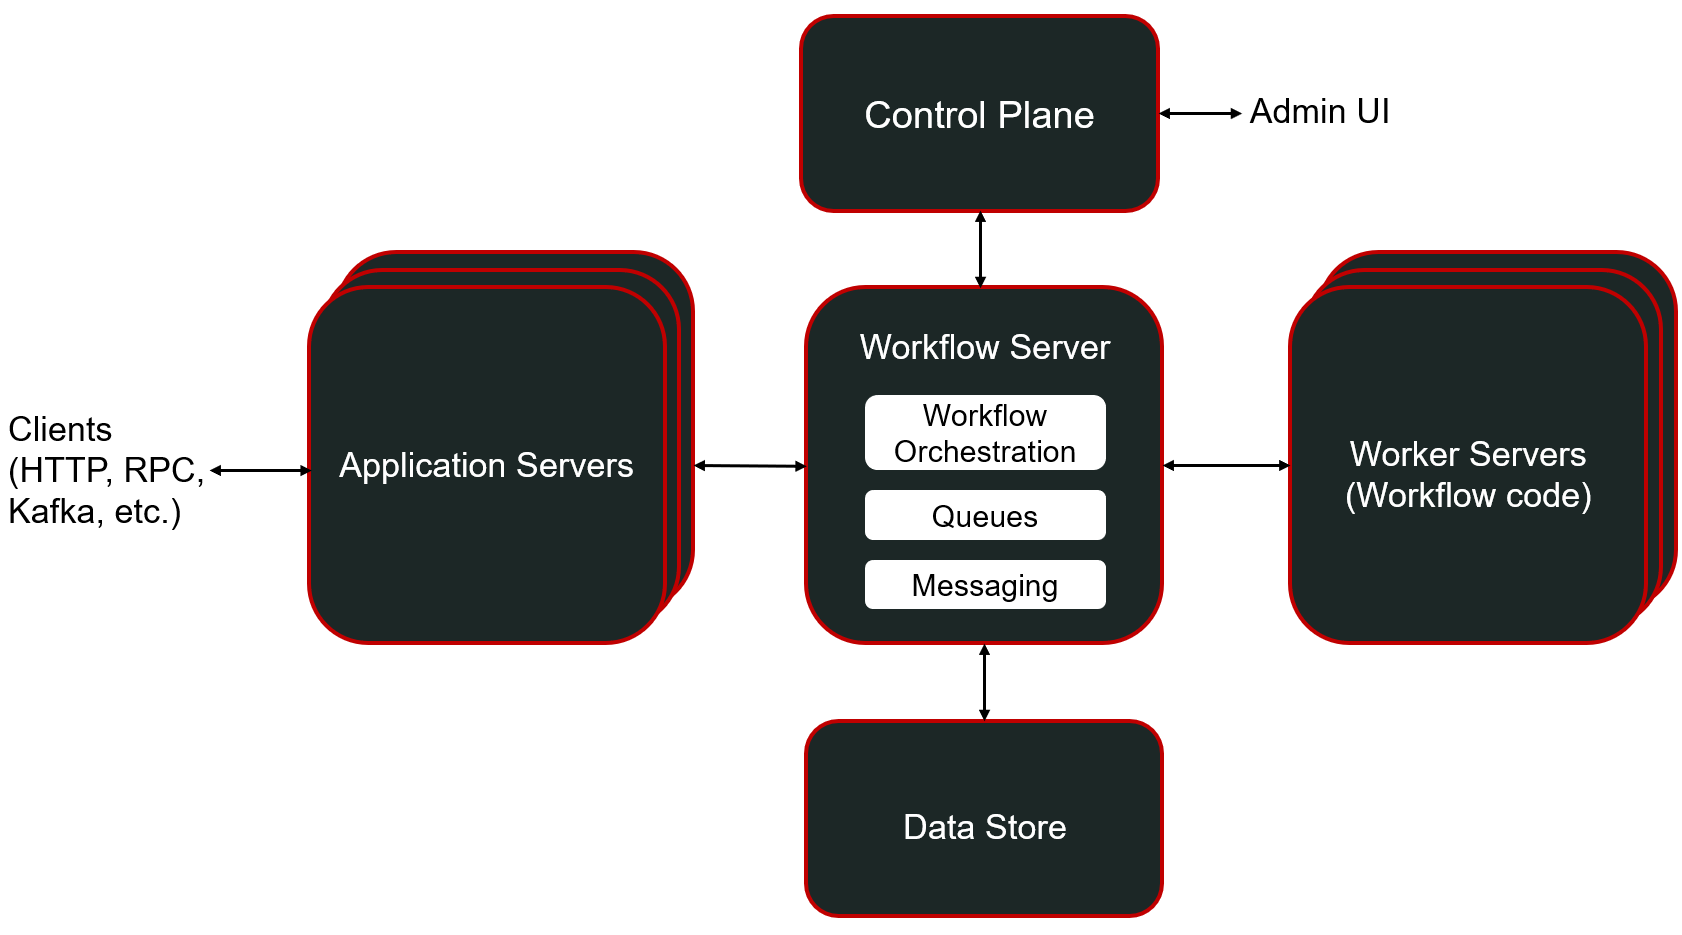
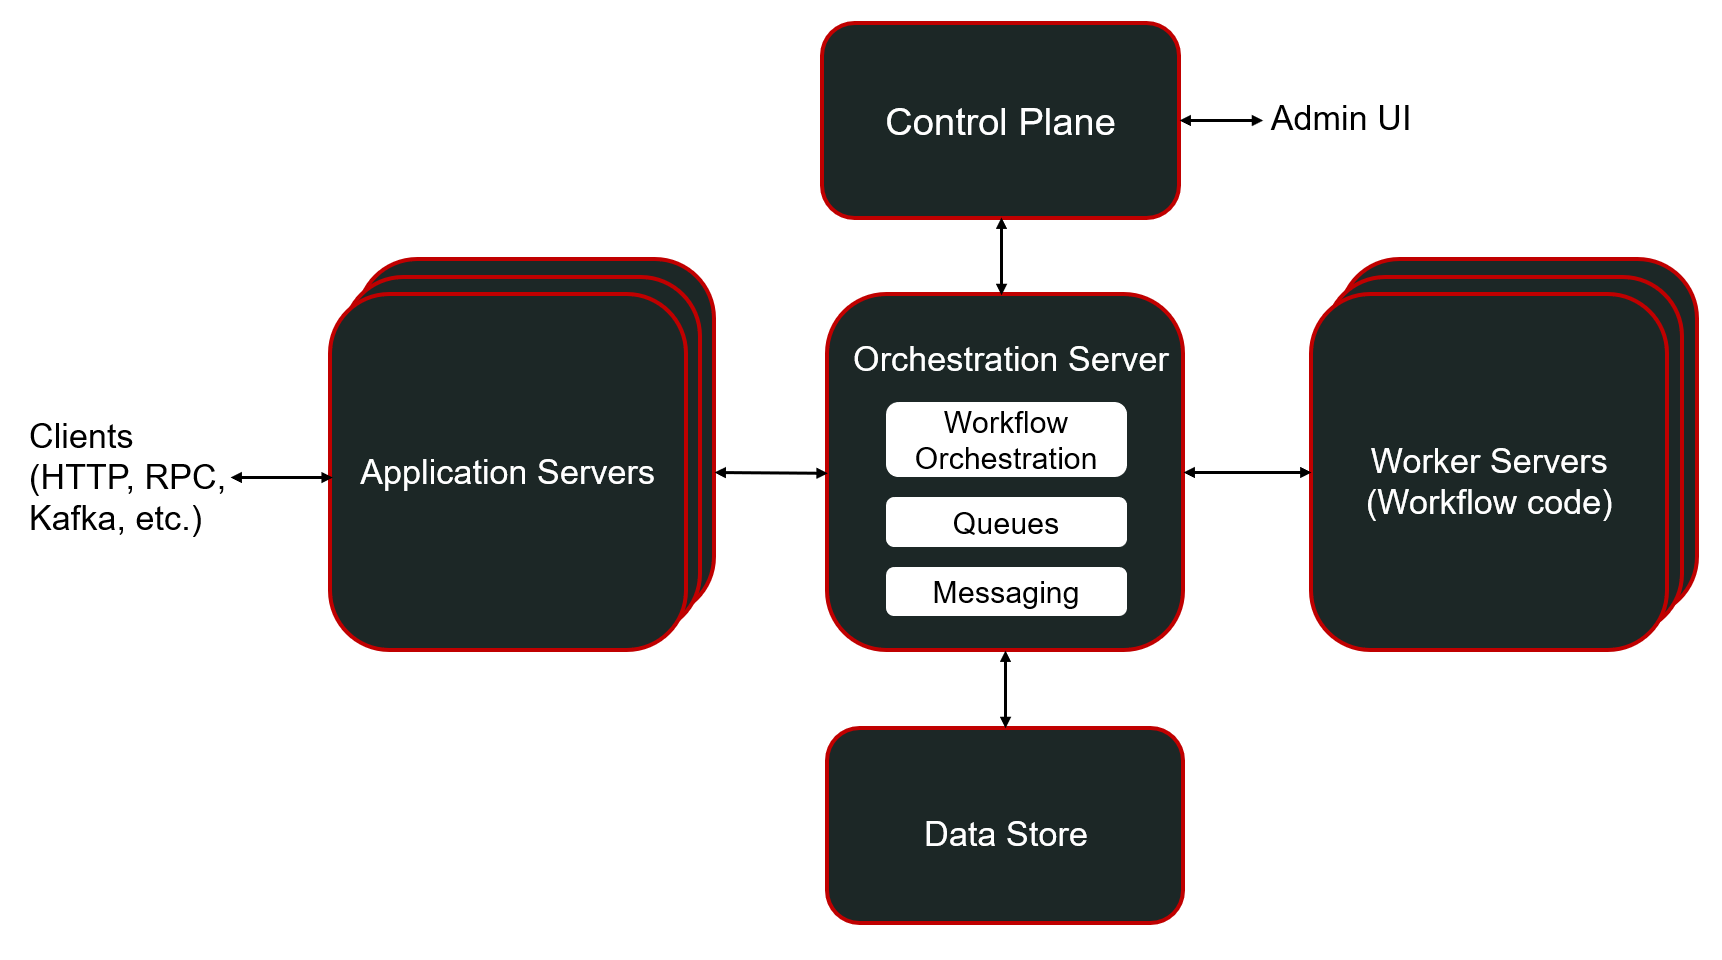
updates

diff --git a/docs/architecture.md b/docs/architecture.md
@@ -15,7 +15,7 @@ Then, you annotate workflows and steps in your application code.
 The DBOS library **checkpoints** those workflows and steps in Postgres.
 If your program fails, crashes, or is interrupted, DBOS uses those checkpoints to automatically recover your workflows from the last completed step.
 
-<img src={require('@site/static/img/architecture/dbos-steps.jpg').default} alt="DBOS Architecture" width="750" className="custom-img"/>
+<img src={require('@site/static/img/architecture/dbos-steps.jpg').default} alt="DBOS Steps" width="750" className="custom-img"/>
 
 ## Comparison to External Workflow Orchestrators
 
@@ -23,19 +23,17 @@ DBOS architecture is radically simpler than other workflow systems such as Tempo
 All these systems implement workflows via **external orchestration**.
 At a high-level, their architectures look like this:
 
-<img src={require('@site/static/img/architecture/external-architecture.png').default} alt="DBOS Architecture" width="750" className="custom-img"/>
+<img src={require('@site/static/img/architecture/external-architecture.png').default} alt="External Orchestrator Architecture" width="750" className="custom-img"/>
 
 Externally orchestrated systems are made up of an orchestrator and a bunch of workers. The orchestrator runs workflow code, dispatching steps to workers through queues.
-Workers execute steps, then return their output to the orchestrator.
-The orchestrator persists that output to a data store, then dispatches the next step.
-Typically, the orchestrator and workers run on separate servers and communicate via message-passing.
+Workers execute steps, then return their output to the orchestrator, which persists that output to a data store then dispatches the next step.
 Application code can't call workflows directly, but instead sends requests to the orchestrator server to start workflows and fetch their results.
 
 While DBOS can be installed into an existing application as a library, adding an external orchestrator to an application requires substantially rearchitecting it.
 First, you must move all workflow and step code from application servers to workers.
-You must also rewrite all interaction between your application and its workflows to go through the orchestration server and its client APIs.
-Then, you must build infrastructure to operate and scale the worker servers.
-Finally, you must operate the orchestration server and its underlying data store (for example, Cassandra for Temporal), which are both single points of failure for your application.
+Then, you must also rewrite all interaction between your application and its workflows to go through the orchestration server and its client APIs.
+Next, you must build infrastructure to operate and scale the worker servers.
+Finally, you must operate and scale the orchestration server and its underlying data store (for example, Cassandra for Temporal), which are both single points of failure for your application.
 
 ## How Workflow Recovery Works
 
@@ -45,7 +43,7 @@ Here's how that works:
 
 1. First, DBOS must detect that workflow execution has failed.
 For a single-node application, this is easy: on startup, DBOS looks up and attempts to recover all incomplete (`PENDING`) workflows.
-In a distributed setting, detecting failed workflow execution can be done automatically through tools like [DBOS Conductor](./production/self-hosting/conductor.md) or manually using the admin API (more documentation [here](./production/self-hosting/workflow-recovery.md)).
+In a distributed setting, detecting failed workflow execution can be done automatically through services like [DBOS Conductor](#operating-dbos-in-production-with-conductor) or manually using the admin API (more documentation [here](./production/self-hosting/workflow-recovery.md)).
 
 2. Next, DBOS restarts the interrupted workflow from the beginning by calling it with its checkpointed inputs.
 As the workflow re-executes, it checks before executing each step if that step's output is checkpointed in Postgres.
@@ -99,7 +97,7 @@ It provides:
 
 Architecturally, Conductor looks like this:
 
-<img src={require('@site/static/img/architecture/dbos-conductor-architecture.png').default} alt="DBOS Architecture" width="750" className="custom-img"/>
+<img src={require('@site/static/img/architecture/dbos-conductor-architecture.png').default} alt="DBOS Conductor Architecture" width="750" className="custom-img"/>
 
 Each of your application servers opens a secure websocket connection to Conductor.
 All of Conductor's features are powered by these websocket connections.
